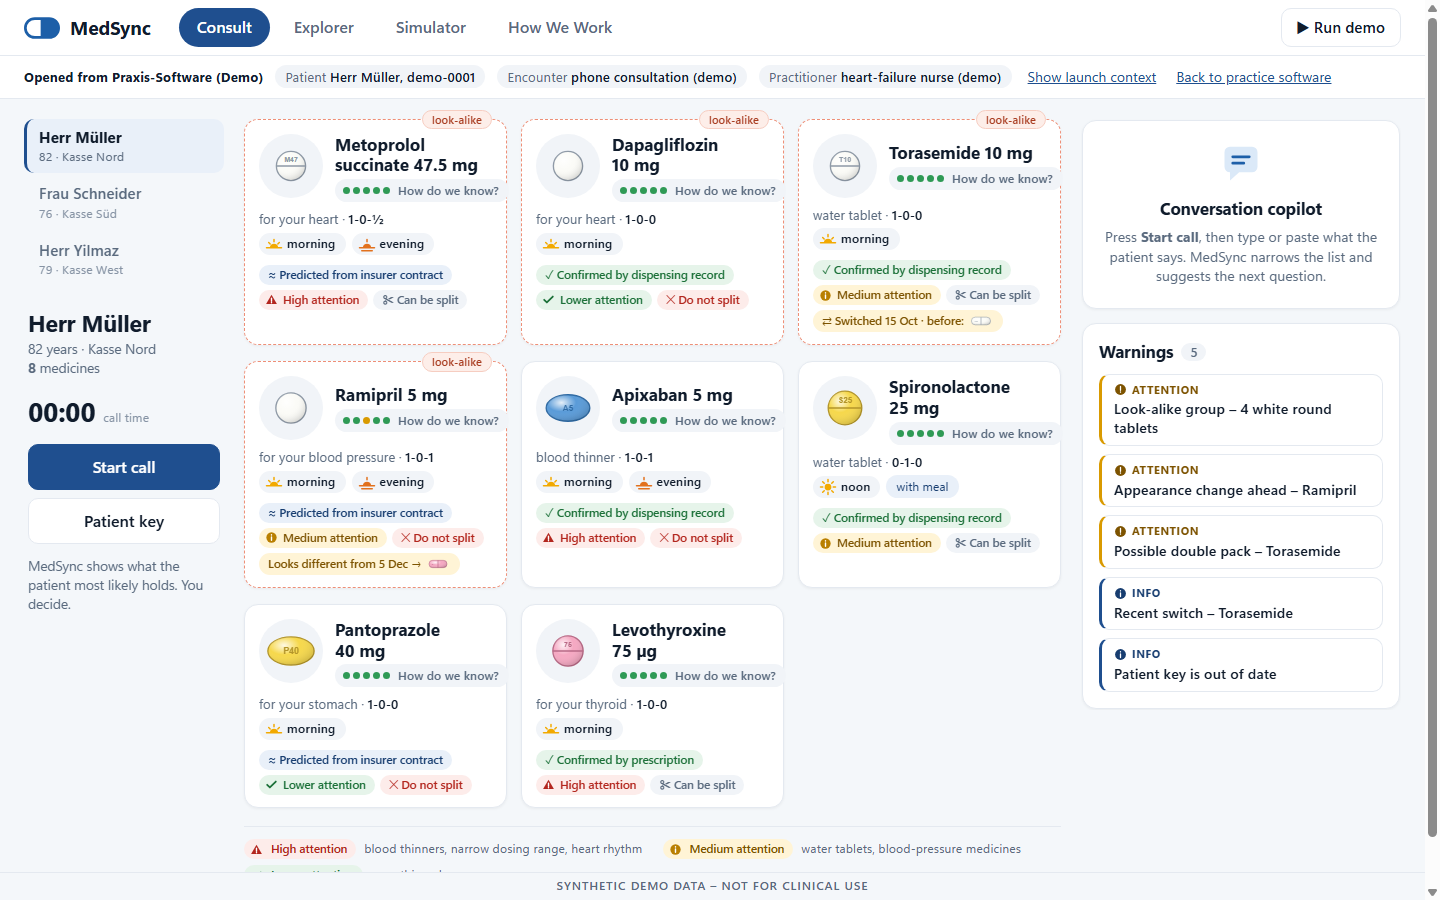
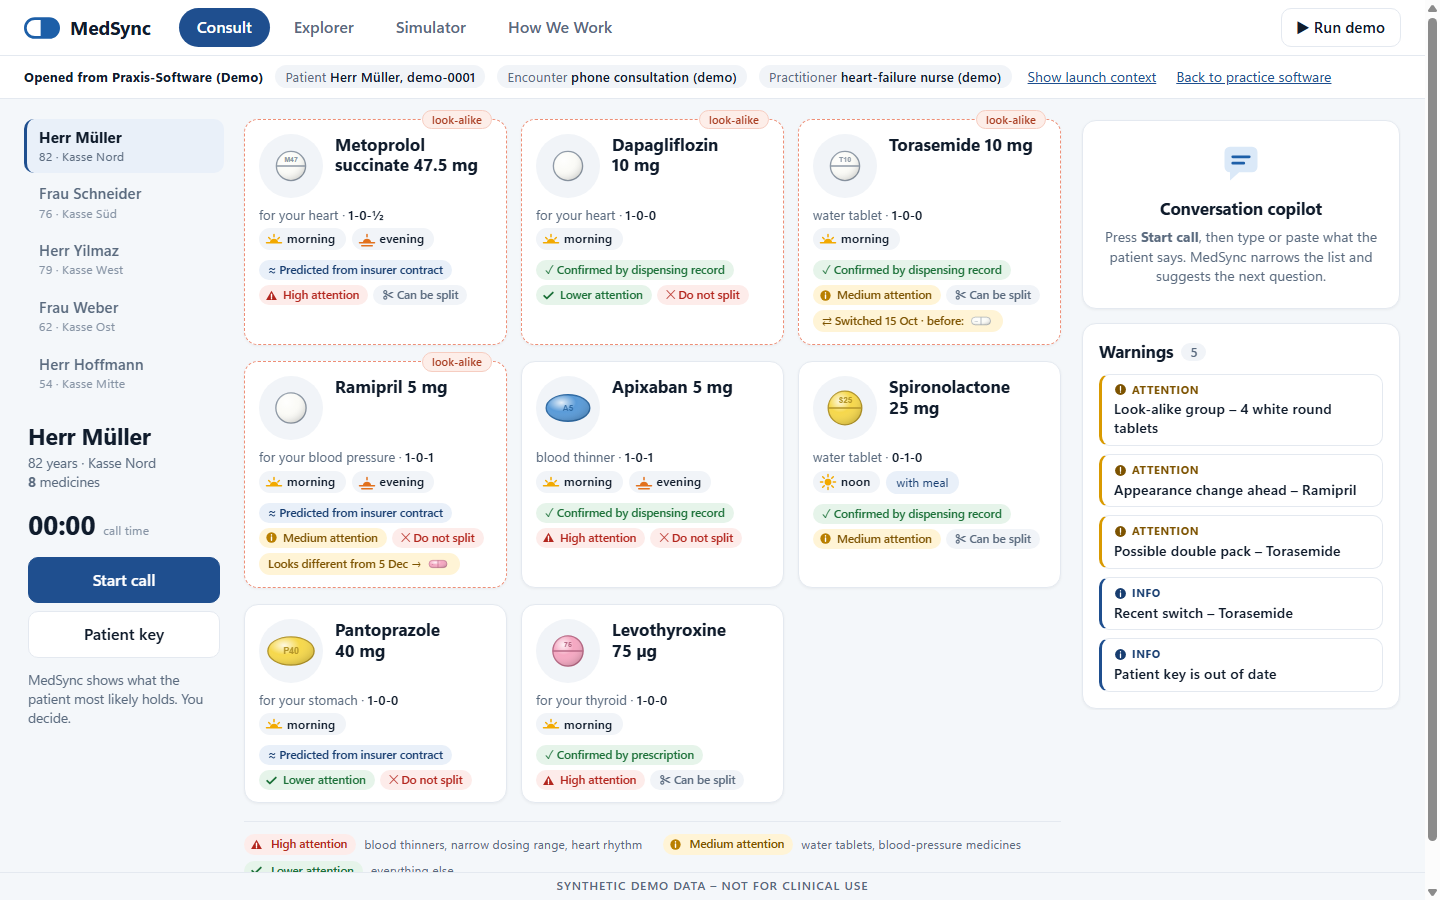
Remove How do we know, restore cycle diagram on How We Work, add two mock patients (62 and 54)

diff --git a/app/l8_ui/templates/how_we_work.html b/app/l8_ui/templates/how_we_work.html
@@ -35,6 +35,38 @@
     </ol>
   </section>
 
+  <section class="story-engine" aria-labelledby="engine">
+    <h2 id="engine">From a text table to the tablet in the hand</h2>
+    <div class="loop">
+      <svg class="loop-arrows" viewBox="0 0 960 520" aria-hidden="true" preserveAspectRatio="xMidYMid meet">
+        <defs><marker id="loop-head" markerWidth="12" markerHeight="12" refX="9" refY="6" orient="auto"><path d="M1 1 11 6 1 11z"/></marker></defs>
+        <path class="loop-path" d="M650 92 Q835 110 815 268" marker-end="url(#loop-head)"/>
+        <path class="loop-path" d="M640 452 Q480 505 322 452" marker-end="url(#loop-head)"/>
+        <path class="loop-path" d="M145 268 Q125 110 310 92" marker-end="url(#loop-head)"/>
+      </svg>
+      <p class="loop-centre">Zero friction communication.</p>
+
+      <a class="loop-node extract" href="/host?patient_id=1">
+        <h3>Extract</h3>
+        <p>The electronic medication plan and Telematikinfrastruktur data would provide the active ingredient and the insurer.</p>
+        <span class="loop-value">{{ substance.inn_name_de }} {{ strength.replace('.', ',') }} + {{ pair[0].insurer }}</span>
+        <small>Opens the practice-software text table</small>
+      </a>
+      <a class="loop-node transform" href="/explorer?insurer_id={{ insurer_id }}&substance_id={{ substance.id }}">
+        <h3>Transform</h3>
+        <p>The engine cross-references Rabattvertrag data to find the 8-digit PZN the pharmacy is expected to dispense.</p>
+        <span class="loop-value">PZN {{ pzn }}</span>
+        <small>Contract data source: simulated in this prototype. A pharmacy dispensing record, when available, overrides the prediction.</small>
+      </a>
+      <a class="loop-node load" href="/consult?patient_id=1&open=key">
+        <h3>Load</h3>
+        <p>The PZN becomes the physical pill picture on the clinician's screen and on the patient's printed key.</p>
+        <span class="loop-value pill">{{ pair[0].product.image_svg|safe }}</span>
+        <small>Opens the patient key preview</small>
+      </a>
+    </div>
+  </section>
+
   <section class="story-integration" aria-labelledby="integration">
     <h2 id="integration">An add-on, not a replacement</h2>
     <p>MedSync is designed to open from inside the practice software a clinic already uses. This prototype shows the idea with a mock host screen; no integration exists.</p>

diff --git a/app/l8_ui/static/styles.css b/app/l8_ui/static/styles.css
@@ -417,3 +417,24 @@ body.demo-on .toasts { bottom: calc(var(--foot-h) + 104px); }
 .card-top .chain { justify-self: start; white-space: nowrap; }
 .card-top .purpose, .card-top .times { grid-column: 1 / -1; }
 .card-top .purpose { margin-top: 4px; }
+
+/* How We Work: the Extract, Transform, Load cycle */
+.loop { position: relative; height: 500px; max-width: 940px; width: 100%; margin: 0 auto; }
+.loop-arrows { position: absolute; inset: 0; width: 100%; height: 100%; }
+.loop-path { fill: none; stroke: var(--blue); stroke-width: 2.5; stroke-dasharray: 9 9; animation: flow 1.6s linear infinite; }
+#loop-head path { fill: var(--blue); }
+@keyframes flow { to { stroke-dashoffset: -36; } }
+.loop-centre { position: absolute; left: 50%; top: 56%; transform: translate(-50%, -50%); font-size: 1.35rem; font-weight: 700; text-align: center;
+  max-width: 11ch; line-height: 1.15; letter-spacing: -.015em; }
+.loop-node { position: absolute; width: 300px; background: #fff; border: 1px solid var(--line); border-radius: var(--radius); padding: 16px 18px;
+  box-shadow: var(--shadow); color: var(--ink); text-decoration: none; display: grid; gap: 6px; transition: border-color .15s; }
+.loop-node:hover, .loop-node:focus-visible { border-color: var(--blue); }
+.loop-node h3 { font-size: 1.2rem; color: var(--blue); } .loop-node p { font-size: .9rem; color: var(--soft); } .loop-node small { color: var(--mute); font-size: .76rem; }
+.loop-node.extract { left: 50%; top: 0; transform: translateX(-50%); }
+.loop-node.transform { right: 0; bottom: 0; } .loop-node.load { left: 0; bottom: 0; }
+.loop-value { font: 700 .88rem "Courier New", Courier, monospace; background: var(--blue-soft); border-radius: 8px; padding: 4px 8px; justify-self: start; }
+.loop-value.pill { width: 64px; height: 64px; padding: 0; background: var(--fill); border-radius: 50%; } .loop-value.pill svg { width: 100%; height: 100%; }
+@media (max-width: 900px) {
+  .loop { height: auto; display: grid; gap: 14px; } .loop-arrows { display: none; }
+  .loop-node, .loop-centre { position: static; transform: none; width: auto; max-width: none; }
+}

diff --git a/app/l8_ui/templates/_trail.html b/app/l8_ui/templates/_trail.html
@@ -1,23 +1,11 @@
 {% import "_macros.html" as m %}
-<div class="panel" role="dialog" aria-label="How do we know?">
+<div class="panel" role="dialog" aria-label="Product details">
   <button type="button" class="close" data-close="side-panel" aria-label="Close">&times;</button>
-  <p class="eyebrow">How do we know?</p>
+  <p class="eyebrow">Product details</p>
   <h2>{{ med.label }}</h2>
   <div>{{ m.risk_badge(med.risk_tier) }}</div>
   <div class="panel-pill">{{ m.pill_box(res, 'small') }}<p class="headline">{{ trail.headline }}</p></div>
 
-  <ol class="stages">
-    {% for s in res.stages %}
-    <li class="stage {{ s.status }}">
-      <span class="dot {{ s.status }}" aria-hidden="true"></span>
-      <div>
-        <b>{{ s.stage }}. {{ s.name|capitalize }}</b>
-        <span class="st">{{ {'ok': 'OK', 'warning': 'Check', 'failed': 'Not available'}[s.status] }}</span>
-        <p>{{ s.detail }}</p>
-      </div>
-    </li>
-    {% endfor %}
-  </ol>
   {% for line in trail.lines[5:] %}<p class="extra">&#9432; {{ line }}</p>{% endfor %}
 
   {% if res.confidence_code in ['contract', 'prescription'] and res.product %}

diff --git a/app/l8_ui/static/app.js b/app/l8_ui/static/app.js
@@ -120,13 +120,6 @@
       if (c) { spotlight("#next-question"); await sleep(1200); c.click(); await waitFor("#identity-confirmed", 3000); }
       return;
     }
-    if (a.do === "open_trail") {
-      spotlight("#card-" + a.prescription_id);
-      await sleep(900);
-      var chain = $("#card-" + a.prescription_id + " .chain");
-      if (chain) chain.click();
-      return;
-    }
     if (a.do === "simulate") {
       var btn = await waitFor("#sim-" + a.action);
       if (btn) { spotlight("#sim-" + a.action); await sleep(700); btn.click(); await sleep(1300); spotlight("#mini-1"); }
@@ -156,6 +149,7 @@
     var s = demoState();
     if (!s || !s.on) return;
     var step = demo.steps[s.i];
+    if (!step) { stopDemo(); return; }   /* a tab that remembers an older, longer demo */
     if (location.pathname !== PAGES[step.page]) { location.href = targetUrl(step); return; }
     renderBar(s);
     close("modal"); close("side-panel");

diff --git a/app/l8_ui/templates/_cards.html b/app/l8_ui/templates/_cards.html
@@ -11,11 +11,6 @@
     {{ m.pill_box(res) }}
     <div class="card-main">
       <h3>{{ med.substance_name }} <span class="strength">{{ med.strength }}</span></h3>
-      <button type="button" class="chain" hx-get="/prescriptions/{{ med.prescription_id }}/trail" hx-target="#side-panel"
-              aria-label="How do we know? Open the trail for {{ med.label }}">
-        {% for name, status in c.chain %}<i class="dot {{ status }}" title="{{ loop.index }}. {{ name }}: {{ status }}"></i>{% endfor %}
-        <span>How do we know?</span>
-      </button>
       <p class="purpose">{{ med.purpose_en }} · <span class="instr">{{ med.instruction_text }}</span></p>
       <div class="times">
         {% for t in ['morning', 'noon', 'evening', 'night'] %}{% if t in med.times %}{{ m.time_icon(t) }}{% endif %}{% endfor %}

diff --git a/app/l8_ui/templates/base.html b/app/l8_ui/templates/base.html
@@ -30,7 +30,7 @@
   <div id="toasts" class="toasts" role="status" aria-live="polite"></div>
 
   <div id="demo-bar" class="demo-bar" hidden>
-    <div class="demo-step"><span id="demo-count">Step 1 of 6</span><b id="demo-title"></b></div>
+    <div class="demo-step"><span id="demo-count">Step 1 of 5</span><b id="demo-title"></b></div>
     <p id="demo-say"></p>
     <div class="demo-controls">
       <button type="button" class="btn small" id="demo-back" aria-label="Previous step">&#9664; Back</button>

diff --git a/tests/test_l7_api.py b/tests/test_l7_api.py
@@ -23,7 +23,7 @@ def client():
 def test_smoke_every_route(client):
     assert client.get("/health").json()["status"] == "ok"
     patients = client.get("/patients").json()
-    assert [p["name"] for p in patients] == ["Herr Müller", "Frau Schneider", "Herr Yilmaz"]
+    assert [p["name"] for p in patients] == ["Herr Müller", "Frau Schneider", "Herr Yilmaz", "Frau Weber", "Herr Hoffmann"]
 
     meds = client.get("/patients/1/medications", headers=JSON).json()
     assert len(meds) == 8 and [s["stage"] for s in meds[0]["resolution"]["stages"]] == [1, 2, 3, 4, 5]
@@ -64,7 +64,7 @@ def test_smoke_every_route(client):
     assert bundle["resourceType"] == "Bundle" and len(bundle["entry"]) == 8
     for action in ("shortage_substitution", "contract_rotates", "contract_expires", "reset"):
         assert client.post(f"/simulator/{action}", headers=JSON).json()["ok"] is True
-    assert len(client.get("/demo/scenario").json()["steps"]) == 7
+    assert len(client.get("/demo/scenario").json()["steps"]) == 6
 
 
 def test_every_tab_and_partial_renders_with_the_footer(client):
@@ -124,15 +124,16 @@ def test_demo_scenario_is_repeatable_and_short(client):
     assert steps[2]["sequence"] == [8, 7, 2, 1]
     assert steps[2]["questions"][0] == "Does the tablet have a line across the middle?"
     assert steps[2]["matched"] == ["Metoprolol succinate 47.5 mg"]
-    assert steps[3]["trail_stages"] == ["insurer", "drug", "contract", "product", "appearance"]
     assert steps[1]["metoprolol"] == ["Predicted from insurer contract", "white"]
     assert steps[2]["confirmed"] is True
-    assert steps[3]["metoprolol"] == ["Confirmed with patient", "white"]           # the nurse's click flipped it
-    assert steps[5]["metoprolol"] == ["Confirmed by dispensing record", "orange"]
-    assert steps[5]["top_warnings"] == ["Possible double pack – Metoprolol succinate",
+    assert steps[2]["metoprolol"] == ["Confirmed with patient", "white"]           # the nurse's click flipped it
+    assert steps[4]["metoprolol"] == ["Confirmed by dispensing record", "orange"]
+    assert steps[4]["top_warnings"] == ["Possible double pack – Metoprolol succinate",
                                         "Split instruction not possible – new product must not be split"]
-    assert steps[6]["key_has_new_box"] is True
-    assert len(steps) == 7 and steps[-1]["n"] == 6
+    assert steps[5]["key_has_new_box"] is True
+    assert len(steps) == 6 and steps[-1]["n"] == 5
+    consult = client.get("/consult", headers=HTML).text
+    assert "How do we know?" not in consult and 'class="chain"' not in consult
 
 
 BANNED = ("100%", "guaranteed", "proves")

diff --git a/app/demo/scenario.py b/app/demo/scenario.py
@@ -23,16 +23,13 @@ STEPS: list[dict[str, Any]] = [
      "say": "Two white heart tablets remain. MedSync suggests the next question; the nurse confirms with one click.",
      "actions": [{"do": "utter", "text": SAY_2}, {"do": "spotlight", "sel": "#next-question"},
                  {"do": "wait", "ms": 5500}, {"do": "utter", "text": SAY_3}, {"do": "confirm", "prescription_id": 1}]},
-    {"n": 4, "page": "consult", "seconds": 15, "title": "How do we know?",
-     "say": "Every result has a plain-language trail: insurer, drug, contract, product, appearance.",
-     "actions": [{"do": "open_trail", "prescription_id": 1}]},
-    {"n": 5, "page": "simulator", "seconds": 10, "title": "The pharmacy substitutes",
+    {"n": 4, "page": "simulator", "seconds": 10, "title": "The pharmacy substitutes",
      "say": "Metoprolol is short, so the pharmacy hands over another product. Watch the picture change.",
      "actions": [{"do": "wait", "ms": 1500}, {"do": "simulate", "action": "shortage_substitution"}]},
-    {"n": 5, "page": "consult", "fresh": True, "seconds": 15, "title": "Two warnings, straight away",
+    {"n": 4, "page": "consult", "fresh": True, "seconds": 15, "title": "Two warnings, straight away",
      "say": "Confirmed by dispensing record. Possible double pack, and the new tablet must not be split.",
      "actions": [{"do": "spotlight", "sel": "#card-1, #warnings .rec.important"}]},
-    {"n": 6, "page": "consult", "seconds": 14, "title": "The patient key",
+    {"n": 5, "page": "consult", "seconds": 14, "title": "The patient key",
      "say": "A large-print picture key for the patient: same medicine, new look, do not take both.",
      "actions": [{"do": "open_key", "lang": "de"}]},
 ]
@@ -63,10 +60,6 @@ def run_headless(client: Any) -> dict:
             elif action["do"] == "confirm":
                 done = client.post(f"/prescriptions/{action['prescription_id']}/confirm", headers=json_h)
                 seen["confirmed"] = done.json()["ok"]
-            elif action["do"] == "open_trail":
-                trail = client.get(f"/prescriptions/{action['prescription_id']}/trail", headers=json_h).json()
-                seen["trail_stages"] = [s["name"] for s in trail["resolution"]["stages"]]
-                seen["confidence_before"] = trail["resolution"]["confidence"]
             elif action["do"] == "simulate":
                 seen["message"] = client.post(f"/simulator/{action['action']}", headers=json_h).json()["message"]
             elif action["do"] == "open_key":

diff --git a/tests/test_polish.py b/tests/test_polish.py
@@ -95,7 +95,8 @@ def test_old_risk_markup_is_gone_and_badge_is_used(client):
         assert ".badge.risk" not in path.read_text(encoding="utf-8"), path.name
     consult = client.get("/consult?patient_id=1", headers=HTML).text
     assert consult.count("risk-badge risk-") == 8 + 3              # one per card plus the legend
-    assert "risk-badge risk-" in client.get("/prescriptions/1/trail", headers=HX).text
+    panel = client.get("/prescriptions/1/trail", headers=HX).text
+    assert "risk-badge risk-" in panel and "How do we know?" not in panel
     assert "risk-badge risk-" in client.get("/explorer", headers=HTML).text
 
 
@@ -133,11 +134,14 @@ def test_how_we_work_is_short_and_uses_real_seed_values(client):
     page = client.get("/how-we-work", headers=HTML).text
     for text in ("Prescribed by name. Dispensed by contract. Described by color.", "Metoprololsuccinat", "Kasse Nord",
                  "Kasse Süd", "The GP prescribes", "The pharmacy dispenses", "The patient describes",
-                 "What is simulated here", "no integration exists"):
+                 "What is simulated here", "no integration exists", "Extract", "Transform", "Load",
+                 "Zero friction communication.", "Contract data source: simulated in this prototype"):
         assert text in page, text
     pzns = re.findall(r"PZN (\d{8})", page)
     assert len(set(pzns)) >= 2 and all(99900000 <= int(p) <= 99999999 for p in pzns)
-    assert page.count("<section") == 3                              # simplified: three short sections
+    assert page.count("<section") == 4 and page.count('class="loop-node') == 3   # short page plus the cycle diagram
+    for href in ('href="/host?patient_id=1"', 'href="/explorer?insurer_id=1&substance_id=1"', 'href="/consult?patient_id=1&open=key"'):
+        assert href in page
     assert "TK" not in re.sub(r"<[^>]+>", " ", page).split()       # the story page keeps the fictional insurers
 
 

diff --git a/app/l1_data/seed.py b/app/l1_data/seed.py
@@ -155,6 +155,20 @@ PATIENTS = [
              ("panto", "1-0-0", "morning", False, None, []),
              ("ibu", "1 tablet when needed", "", True, None, []),
          ]),
+    dict(salutation="Frau", first="Sabine", last="Weber", age=62, insurer="Kasse Ost",
+         address="Probeweg 21, 96047 Bamberg", phone="0951 5550104", key_issued=None, rx=[
+             ("biso", "1-0-0", "morning", False, None, [(-30, "BA", "normal")]),
+             ("sv", "1-0-1", "morning,evening", False, None, [(-20, "SVB", "normal")]),
+             ("dapa", "1-0-0", "morning", False, None, []),
+             ("ator", "0-0-1", "evening", False, None, [(-40, "ATC", "normal")]),
+         ]),
+    dict(salutation="Herr", first="Jonas", last="Hoffmann", age=54, insurer="Kasse Mitte",
+         address="Testgasse 3, 91301 Forchheim", phone="09191 5550105", key_issued=None, rx=[
+             ("meto", "1-0-0", "morning", False, None, [(-25, "MB", "normal")]),
+             ("rami", "1-0-0", "morning", False, None, []),
+             ("spiro", "1-0-0", "morning", True, None, []),
+             ("panto", "1-0-0", "morning", False, None, [(-15, "PB", "normal")]),
+         ]),
 ]
 
 

diff --git a/tests/test_l1_data.py b/tests/test_l1_data.py
@@ -10,7 +10,7 @@ def test_seed_is_idempotent(session):
     assert len(session.exec(select(Product)).all()) == before
     assert len(session.exec(select(Insurer)).all()) == 6
     assert len(session.exec(select(Substance)).all()) == 12
-    assert [len(adapters.prescriptions_for(session, p.id)) for p in adapters.list_patients(session)] == [8, 6, 5]
+    assert [len(adapters.prescriptions_for(session, p.id)) for p in adapters.list_patients(session)] == [8, 6, 5, 4, 4]
 
 
 def test_reset_restores_seed(session):

diff --git a/docs/PITCH.md b/docs/PITCH.md
@@ -27,18 +27,17 @@ table. When A finishes, B clicks **Launch MedSync VisualID**, then **Run demo**.
 > medicine comes in a new shape. Nobody on that call knows what is in his hand.
 > So calls run long, people call back, and sometimes the wrong tablet gets changed.
 
-## 0:30 – 2:15 · Live demo (B drives, C speaks)
+## 0:30 – 2:00 · Live demo (B drives, C speaks)
 
 | Time | Step | C says |
 |---|---|---|
 | 0:30 | 1 · Consult | "This is MedSync. The nurse sees what Herr Müller sees: eight medicines as pictures. Four are small white tablets. MedSync has outlined them: look-alikes." |
 | 0:40 | 2 · Patient talks | "She types what he says. In German. MedSync picks out colours and counts, and notices he mentions three white tablets where the list has four." |
 | 1:00 | 3 · Heart or yellow? | "He asks: the one for the heart? Two tablets are left, both white. MedSync suggests the one question that separates them: does it have a line across the middle? He says yes. One tablet left, and the nurse records it with one click: confirmed with patient. She decides, not the software." |
-| 1:20 | 4 · How do we know? | "And it never asks for blind trust. One click shows the trail: his insurer, the drug, the contract, the product, the appearance. In plain words." |
-| 1:35 | 5 · Simulator | "Now real life. The pharmacy is out of stock and substitutes. Watch the picture. … Back on the call screen: confirmed by the dispensing record, and two warnings. He may have old and new packs at home. And his instruction says half a tablet, but the new tablet must not be split." |
-| 2:00 | 6 · Patient key | "Herr Müller installs nothing. He gets one page in large print: same medicine, new look, do not take both." |
+| 1:20 | 4 · Simulator | "Now real life. The pharmacy is out of stock and substitutes. Watch the picture. … Back on the call screen: confirmed by the dispensing record, and two warnings. He may have old and new packs at home. And his instruction says half a tablet, but the new tablet must not be split." |
+| 1:45 | 5 · Patient key | "Herr Müller installs nothing. He gets one page in large print: same medicine, new look, do not take both." |
 
-## 2:15 – 3:00 · Outcome and next step (D)
+## 2:00 – 3:00 · Outcome and next step (D)
 
 > The challenge asks for fewer healthcare contacts. We have not measured that yet, and we will not pretend
 > we have. So our next step is a four-week pilot in one heart-failure clinic, measuring call duration,
